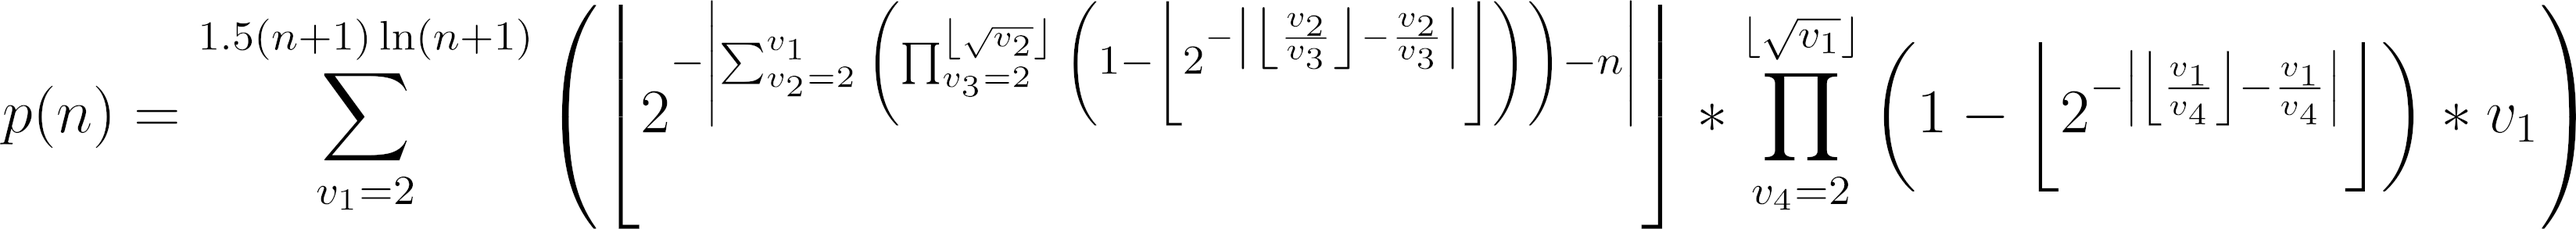
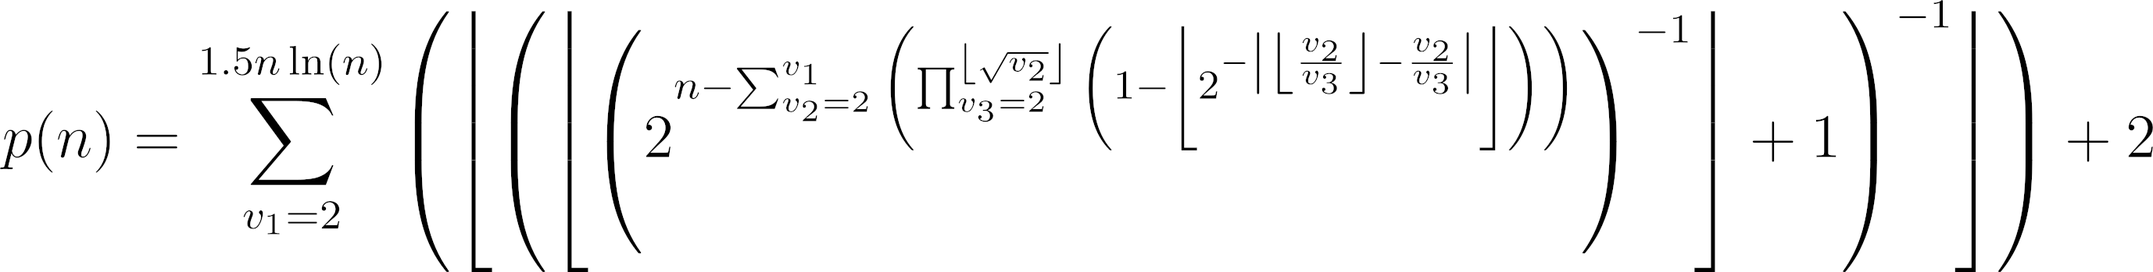
Make nth-prime more efficient

diff --git a/examples/nth-prime/README.md b/examples/nth-prime/README.md
@@ -1,6 +1,6 @@
 # Nth-Prime
 
-This function returns the nth prime, where the 1st prime is 2. It works by finding the number which has n-1 primes below it and itself is prime.
+This function returns the nth prime, where the 1st prime is 2. It works by counting the numbers which have less than n primes below them (which is based on Willans' formula for primes).
 
 It only requires sum, product (which can be swapped with sum for a larger function), abs, floor, ln, and basic arithmetic. It can run on a scientific calculator, albeit very, very slowly. It's also very likely that there could be improvements. If you see any, let me know (or make a pull request).
 
